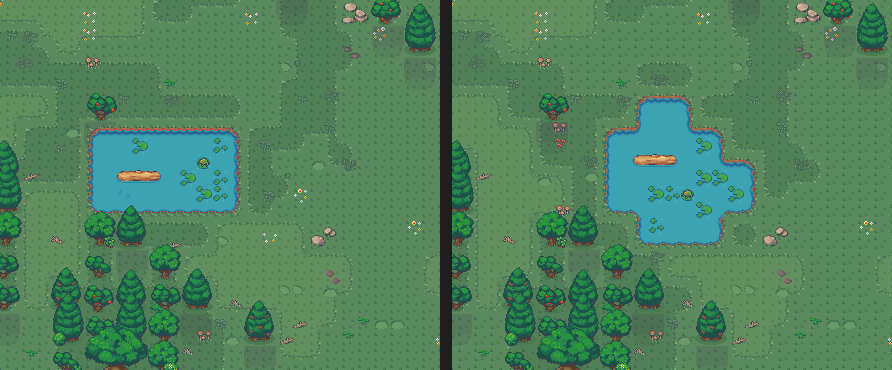
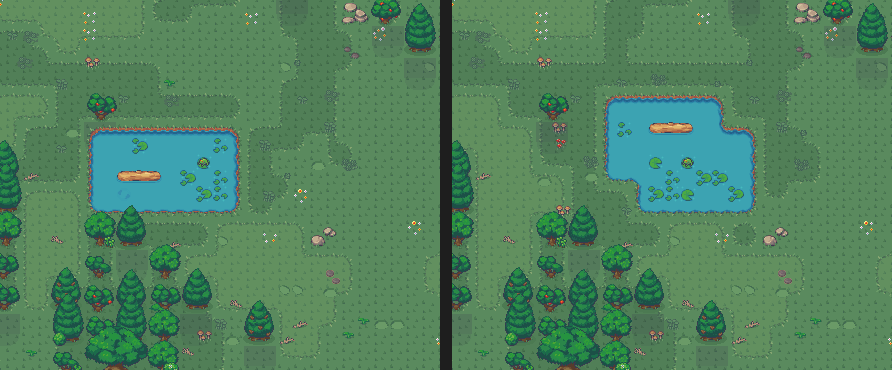
D-191: the sim check, the leaning ponds and Creekside's +150% in the log
Rewrites D-191 for the sim check: the first build's cost on creek and pond
lots, the six variants side by side, the leaning ponds and Creekside at +150%
(the user's call), and what was considered. Notes the +150% on D-174, the
leaning ponds on D-049, D-166 and the plan, and swaps in a pond lot's shot with
the leaning pond.

Claude-Session: https://claude.ai/code/session_01UazHN1hxkSSg3iCvTHSRR4

diff --git a/src/rules/text.ts b/src/rules/text.ts
@@ -1282,7 +1282,7 @@ export function blueprintText(content: Content, def: BlueprintDef): string[] {
 
 /**
  * A lot trait's tip (D-119): what it pays, all run, what it deals more of (D-166), then its
- * blurb. "Pieces touching the Creek earn +100%, all run. More Patios in the draw. Only a Driveway
+ * blurb. "Pieces touching the Creek earn +150%, all run. More Patios in the draw. Only a Driveway
  * crosses it."
  */
 export function lotTraitText(content: Content, def: LotTraitDef): string {

diff --git a/src/rules/estimate.ts b/src/rules/estimate.ts
@@ -105,7 +105,7 @@ export interface Estimate {
 export interface EstimateOptions {
   /**
    * What the new piece would touch, where the run's modifiers and the house rules ask for it
-   * (Creekside's +100% for a piece by the creek), which the estimate otherwise counts as never.
+   * (Creekside's +150% for a piece by the creek), which the estimate otherwise counts as never.
    */
   touching?: boolean;
   /**

diff --git a/docs/decisions.md b/docs/decisions.md
@@ -184,7 +184,7 @@ The board sits behind a small `BoardView` interface, so Phaser could replace jus
   *Changed by D-120 (Proposed 2026-11-09):* the sunny side becomes the sun's side, one edge of the lot. A tile is in the sun unless it's a Tree, or a Tree, the Old Shed or a building stands one step toward the sun, and a building with a tile in the sun is Sunny.
   *Changed, 2026-11-12 (D-166; Accepted 2026-11-13, playtest 8):* lot kinds. Once a lot passes its checks, most are shaped toward a trait on a stream of their own: a Rocky lot gets 8–12 more Boulders (14–22), an Open lot loses its woods (its lone Trees stay), and a pond lot's pond grows to 14–20 tiles. A plain lot (35% of draws) is the lot it was, and the first job's lot is always plain. Each kind is a lot trait that pays all run (D-119).
   *Proposed change, 2026-11-13 (D-174, awaiting the user's OK):* biomes. Each lot's biome is drawn first: the meadow (two lots in five: these lots in this look, and the first job's), the lakeside (a lake along the back 2–5 rows, a big pond, or a creek through the middle), the autumn woods (one more woods cluster, autumn colors, and Old Woods lots, whose Trees can't be built over) and the dry lot (Rocky or Open, straw grass and olive trees, a creek on a tenth of lots). The lake is a new feature: water and a view, it counts once, and nothing is built on it, not even a Driveway.
-  *Changed by D-191 (Proposed 2026-11-20):* water in natural shapes. A 3 × 3 pond loses a corner or two, a pond lot's pond is round, a lake's shore curves from bay to point, and a creek bends: from the back edge it heads down and eases round to its side, and side to side it eases from turn to turn.
+  *Changed by D-191 (Proposed 2026-11-20):* water in natural shapes. A 3 × 3 pond loses a corner or two, a pond lot's pond leans, a lake's shore curves from bay to point, and a creek bends: from the back edge it heads down and eases round to its side, and side to side it eases from turn to turn. Creekside pays +150% for the bends' steps (the user's call).
 - Water bodies count once as a neighbor. Each Tree tile counts separately, so effects that count Trees or views have a cap.
 - Only a Driveway can be built over the creek (a culvert), so the house sits on one bank but can still have a Garage.
 - The lot edge bounds a fenced yard like a wall, so a house near an edge makes a cheap fenced yard. A fenced yard must also border the house, so a lone Fence in a corner doesn't count.
@@ -3812,7 +3812,7 @@ What the columns mean:
    | **Open** | only the lone Trees (6–10; a plain lot has 50 or more) | yard pieces +100% | Lawns, Herb Gardens | Few Trees, lots of sun. |
 
    - **Lot kinds** shape most lots (`balance.lot.kinds`: plain 35, Rocky 25, Open 20, pond 20). Once a lot passes its checks, its kind is drawn from its own `lot/<attempt>/kind` stream, so a plain lot is exactly the lot it was. A shaped lot that would fail the checks stays as drawn, and so does a pond lot whose creek took its pond. Rocky's Boulders go down as the first ones did; Open clears every Tree that touches another; the pond grows a tile at a time onto open ground or Trees, where most of its tiles touch, and keeps its margins (off the edges, two rows from the street, a tile from the creek). The first job's lot (`jobBoard.firstSeed`) is always plain: the guided job was built on it (D-149).
-     - *Changed by D-191 (Proposed 2026-11-20):* the pond doesn't grow a tile at a time: it becomes one of 14 round shapes of 16–20 tiles (`ROUND_PONDS`), centered on the pond as drawn and keeping its margins, so Pondside's pond is 16–20 tiles, not 14–20.
+     - *Changed by D-191 (Proposed 2026-11-20):* the pond doesn't grow a tile at a time: it becomes one of 14 shapes of 16–20 tiles (`ROUND_PONDS`), boxes that lean with two corners cut, or all four on the 4 × 6s, centered on the pond as drawn and keeping its margins, so Pondside's pond is 16–20 tiles, not 14–20, with its bank about as long as before.
    - Rocky, Pondside and Open name the kind the lot was shaped to (`when: { kind }`), so a test's bare lot isn't Open. Creekside and Wooded read the terrain, as before.
    - **A run keeps the traits it began with** (`Lot.traits`, set by `newRun`), so clearing Trees can't take Wooded away, and the draw's weights stay fixed for the run (D-043).
    - Of 2,000 lots (`check-0` to `check-1999`): 20.0% plain, 58.2% one trait, 20.5% two, 1.4% three. Creekside 24.6%, Rocky 23.6%, Open 20.2%, Pondside 18.1%, Wooded 17.0%.
@@ -4339,6 +4339,7 @@ What the columns mean:
 - **Old Woods** (`kind oldWoods`, `protects: ['tree']`): the autumn woods as drawn, but no piece is built over a Tree. Placement refuses one with "These old Trees stay: build around them.", and a Tree's inspect line says the same. Pieces touching a Tree earn **+100%**, all run, and more Treehouses and Birdhouses in the draw. "Its Trees stay: build around them." It takes Wooded's place on its lot. The lot needs 65% of its tiles free and the street reachable around the Trees (`KIND_CHECKS`), and the bots' Driveway planner (D-140) goes around its Trees.
 - **Open paid again** (D-166's trait, on meadow and dry lots): yard pieces earn +100%, as before, and Sunny pieces **+50%**; its tilt toward Lawns and Herb Gardens goes. Its tip: "Yard pieces earn +100%, all run. Sunny pieces earn +50%, all run. Few Trees, lots of sun."
 - **Creekside pays +100%** (D-166's +50%), as Pondside and Lakefront do, so the lot's water pays alike. On D-171's targets a creek lot was greedy's weakest on develop (38.7% of its 463 lots of `hold-*`, against 44.9% on all), and the creek through the middle the weakest kind here (40.0%): what the creek takes from the lot cost more than its bank paid back. Its tip: "Pieces touching the Creek earn +100%, all run. More Patios in the draw. Only a Driveway crosses it."
+  *Changed by D-191 (Proposed 2026-11-20, the user's call):* Creekside pays +150%. The creek bends, and a bend's bank runs in steps a house of square rooms can't line up along: at +100%, greedy won 43.0% of the 477 creek lots of `hold-0` to `hold-1999`, where it won 50.7% of them with the old creeks, and at +150%, 47.2%. Its tip says +150%.
 - **The targets are fitted again,** on top of D-171's (D-169's method): 40, 800, 3,850, 10,700, 25,100, 47,800 and 91,300 Wow, each client's factor as it was, and a first job's `firstTargetPct` 55 (below).
 - **Words:** two new chips whose blurbs are no longer than today's longest (37 characters). How to play lists the seven traits from the content and says the lake gives views. Waterfront counts the Lake, and a list of the lot's one-of-a-kind features shares one "the": "Pieces touching the Pond, Creek, or Lake earn +100%", so its line on a shop card ("No pieces touching the Pond, Creek, or Lake yet", 47 characters) still fits. The Living Room's views note names the Lake. A biome has no name on screen: its colors and its chips say it. No new tooltip or panel.
 
@@ -5128,35 +5129,61 @@ By kind, could pay: blueprints 92.2 → 95.8%, special pieces 89.4 → 96.0%, fi
 - **A replayed run scores more** than it did where Bunk Beds sat at the top of a range, so from there its milestones can go differently.
 
 ### D-191 · Natural water: round ponds, a lake shore that curves, and creeks that bend
-**Status:** Proposed · 2026-11-20, a phase pull request (`phase/natural-water`, on top of D-190's `phase/ground-pass`), the second part of the lot visuals review the user picked ("Ground pass, then natural water", 2026-11-20): "rounder ponds, a curved lake shore and a bending creek. That changes lot generation, breaks runs in progress and needs a sim check." Until now the water was drawn in boxes: a pond lot's pond a plain rectangle on one lot in five, a 3 × 3 pond a square, a creek in long straight runs with square turns, and a lake's shore in square notches. It changes the content (`balance.lot.pondTiles` and the new `bendEvery`), so `contentHash(CONTENT)` goes from `4c677dcf` to `35fdec18`: a run in progress from before doesn't carry over (D-068) and its run code notes that the content has changed, and a creek lot is drawn anew (below).
+**Status:** Proposed · 2026-11-20, a phase pull request (`phase/natural-water`, #117), the second part of the lot visuals review the user picked ("Ground pass, then natural water", 2026-11-20): "rounder ponds, a curved lake shore and a bending creek. That changes lot generation, breaks runs in progress and needs a sim check." Until now the water was drawn in boxes: a pond lot's pond a plain rectangle on one lot in five, a 3 × 3 pond a square, a creek in long straight runs with square turns, and a lake's shore in square notches. The sim check found the new water cost greedy about three points of its wins, all on lots with water, so a pond lot's pond now keeps its bank, and Creekside pays +150%: the user's call on a card (2026-11-20, "Curvy creeks, Creekside +150%", over keeping today's creeks, or the bends with the pay unchanged). It changes the content (`balance.lot.pondTiles`, the new `bendEvery` and Creekside's pay), so `contentHash(CONTENT)` goes from develop's `1c176da1` to `1c0cf487`: a run in progress from before doesn't carry over (D-068) and its run code notes that the content has changed, and a creek lot is drawn anew (below).
 **Decision:**
 - **A pond rounds off** (`roundPond` in `rules/lot.ts`): a 3 × 3 pond loses a corner tile, or on half of them two across from each other, so it leans; the tiles it loses are open ground. A 2 × 2 or 2 × 3 pond stays as it is: the shore's art already rounds each cell's corners. It's the lot's last draw, so every draw before it is as it was.
-- **A pond lot's pond is round** (`growPond`, `ROUND_PONDS`, `cutBox`): one of 14 shapes of 16 to 20 tiles, each a box with its corners cut off in steps: 4 × 5, 5 × 4, 4 × 6 and 6 × 4 with a tile off each corner; 5 × 5 with one corner, or two across from each other, cut two deep (six shapes); and 3 × 6 and 6 × 3 leaning one way or the other. It's centered on the pond as drawn, or up to a cell off where that doesn't fit, on open ground or Trees and with the margins it had (off the lot's edges, two rows from the street, a tile from the creek). `pondTiles` goes from 14–20 to 16–20, the shapes' sizes. Before, it grew a tile at a time and stayed a rectangle on one pond lot in five; now none is.
+- **A pond lot's pond leans** (`growPond`, `ROUND_PONDS`, `cutBox`): one of 14 shapes of 16 to 20 tiles, each a box with corners cut off. Twelve lose two corners across from each other: 4 × 5, 5 × 4, 3 × 6, 6 × 3, 3 × 7 and 7 × 3, each leaning one way or the other. The 4 × 6 and the 6 × 4 lose all four. A cut corner shortens the bank by a tile and leaves a step a room can't lie flush against, so none is cut more: the first round ponds, with every corner cut and some two deep, cost a pond lot 7.5 points of greedy's wins (the sim check). It's centered on the pond as drawn, or up to a cell off where that doesn't fit, on open ground or Trees and with the margins it had (off the lot's edges, two rows from the street, a tile from the creek). `pondTiles` goes from 14–20 to 16–20, the shapes' sizes. Before, it grew a tile at a time and stayed a rectangle on one pond lot in five; now none is.
 - **A lake's shore curves** (`carveLake`): its depth, the back 2–5 rows as before (`lakeRows`), eases from turn to turn: a turn every 5 to 8 columns (`bendEvery`, drawn once a lake), each 1 to 3 rows from the last, with smoothstep's curve between them, rounded to whole rows (`easeThrough`: plain arithmetic on doubles, no `Math.sin`, so every browser draws the same lot). The shore steps a row at a time, every bay and point is three columns wide or more, and no shore is straight.
 - **A creek bends** (`creekPath`), still a cell wide, stepping a cell at a time, never doubling back and clear of the street:
   - **From the back edge** (half of creeks), a quarter bend (`bendPath`): it heads straight down, eases round toward its side, and reaches it 6 or more rows down (`BEND_FROM_ROW`). Each leans up to 40% toward the straight diagonal, down and across (`BEND_LEAN`), so no two bend alike.
   - **Side to side,** and a split lot's through the middle rows (`acrossPath`): it eases from turn to turn as the lake's shore does, every 5 to 8 columns (`bendEvery`), each turn 1 to 3 rows from the last.
   - **It meets each edge straight on,** so its mouth past the board (`outside.ts`) runs on straight, as the shore there assumes. Over 2,000 lots a creek has 13.5 corners on average, where it had 8.7.
-- **What moves:** a lot without a creek keeps every tile but its pond's, and on a few its finds (the pond rounds last, and a pond lot's pond grows on its kind's own stream). A lot with a creek is drawn anew from its creek on, since the bends take other draws, so its woods, pond, Boulders and finds move. Of 2,000 lots (`seed-0` to `seed-1999`): of the 1,537 without a creek, 877 are the same tile for tile, 590 differ only in their water and 27 in their water and finds, and 43 drew another lot (37 lake lots drawn with a creek the lake took, and 6 whose checks went the other way); of the 463 with one, 393 drew another lot and 70 differ only in their water and finds.
-- **The water's amounts** over the same 2,000 lots, per lot: a meadow lot's pond 4.8 tiles (5.1 before) and a pond lot's 17.4 (16.9); a lake 83.2 tiles (83.8); a split lot's creek 31.4 (31.1). Rounding takes corners, so the banks are shorter: a meadow pond lot's open tiles beside water 15.7 (17.3), a lakeside pond lot's 18.6 (20.3), a split lot's 45.7 (48.4); a lake's 19.6 (19.2).
-- **A pond's log** (D-190): a pond's lilies make room for its log, and a pond with no room for the long log takes a short one, so every pond lot's pond has one. D-190's logs found room among the lilies on 6% of pond lots, and on 1% once the ponds were round.
+- **Creekside pays +150%** (D-174: +100%; `lot-traits.ts`). A bend's bank runs in steps, and a house of square rooms can't line up along it as it can along a straight reach: at +100%, greedy won 43.0% of the 477 creek lots of `hold-0` to `hold-1999`, where it won 50.7% of them with the old creeks. At +150% it won 47.2%, a difference the sample can't tell from none (the sim check). Its tip: "Pieces touching the Creek earn +150%, all run. More Patios in the draw. Only a Driveway crosses it." Pondside and Lakefront stay at +100%: a pond's bank and a lake's are about as long as before (below).
+- **What moves:** a lot without a creek keeps every tile but its pond's, and on a few its finds (the pond rounds last, and a pond lot's pond grows on its kind's own stream). A lot with a creek is drawn anew from its creek on, since the bends take other draws, so its woods, pond, Boulders and finds move. Of 2,000 lots (`seed-0` to `seed-1999`): of the 1,537 without a creek, 877 are the same tile for tile, 589 differ only in their water and 29 in their water and finds, and 42 drew another lot (37 lake lots drawn with a creek the lake took, and 5 whose checks went the other way); of the 463 with one, 393 drew another lot and 70 differ only in their water and finds.
+- **The water's amounts** over the same 2,000 lots, per lot: a meadow pond lot's pond 17.8 tiles (16.9 before) and a lakeside one's 17.9 (17.1); a plain meadow lot's ponds 4.8 (5.1); a lake 83.2 (83.8); a split lot's creek 31.4 (31.1). The banks, as open tiles beside water: a meadow pond lot's 17.1 (17.3) and a lakeside one's 19.4 (20.3, a creek's bank in it on one lot in six); a lake's 19.6 (19.2); a split lot's 45.7 (48.4).
+- **A pond's log** (D-190): a pond's lilies make room for its log, and a pond with no room for the long log takes a short one, so every pond lot's pond has one (all 210 of `seed-0` to `seed-1499`). D-190's lilies left it room on 6% of pond lots, and on 2% once the ponds leaned.
 - **The board draws it as before:** the water's autotiling, the creek's mouths and the lake running on past the lot are unchanged (`water.ts`, `outside.ts`).
 
-**Why:** the user found the lots "uniform and boring outside of the trees", and water drawn in boxes reads as a grid, not a place. A pond that leans, a shore with bays, and a creek that wanders down and round to the side look made by water. The rules read the same tiles as ever (a pond is a pond, a bank is a bank), so the lot plays as it did, with its water in another shape.
+**Why:** the user found the lots "uniform and boring outside of the trees", and water drawn in boxes reads as a grid, not a place. A pond that leans, a shore with bays, and a creek that wanders down and round to the side look made by water. The rules read the same tiles as ever (a pond is a pond, a bank is a bank), but a bank in steps leaves a house of square rooms fewer places to lie along it. So the ponds keep their banks' length and the creek pays more for its steps, and a lot plays about as it did (the sim check).
+
+**The sim check** (greedy, on the user's Mac with Node 26.5, every run with `--no-gate`: the benchmark gate fails on develop too, D-188's gap. "Won only before / after" counts the seeds one side won and the other lost, and p is an exact two-sided sign test on them):
+- **The water as first built** (`0547e92`, against develop at `c92de7b`): greedy won 45.5% of `hold-0` to `hold-999`, against 48.3% (79 won only before, 51 only after, p 0.018), and 48.5% of `check-0` to `check-199`, against 49.5% (14 and 12, p 0.85). Every lot that came out the same tile for tile played the same, and the loss sat on the lots with water: creek lots 48.4% → 41.3% (225 lots) and pond lots 48.3% → 42.4% (118). §8's verdicts kept their classes, but for "fences pay their way" (PASS to PASS, unsure). The banks were shorter: a creek lot's open tiles beside its creek 41.5 → 36.4, a pond lot's beside its pond 13.7 → 12.4.
+- **Six variants side by side** on the 477 creek lots and the 229 pond lots of `hold-0` to `hold-1999`, against develop as the water branched from it (`c92de7b`). The pond lots' arms keep their own creeks, on the one pond lot in eight that has one.
+
+| Creek lots (477) | Won | Change | Won only before / after | p |
+|---|---|---|---|---|
+| Develop's creeks | 50.7% | | | |
+| The bends, Creekside +100% | 43.0% | −7.7 | 100 / 63 | 0.005 |
+| The bends, Creekside +125% | 45.3% | −5.4 | 102 / 76 | 0.06 |
+| **The bends, Creekside +150%** | **47.2%** | **−3.5** | **96 / 79** | **0.23** |
+| Straight reaches with deeper turns between them | 40.0% | −10.7 | 116 / 65 | 0.0002 |
+| The bends, reaching their side 11 rows down or more | 41.9% | −8.8 | 109 / 67 | 0.002 |
+
+| Pond lots (229) | Won | Change | Won only before / after | p |
+|---|---|---|---|---|
+| Develop's ponds | 52.0% | | | |
+| The first round ponds | 44.5% | −7.5 | 34 / 17 | 0.024 |
+| **The leaning ponds** | **47.6%** | **−4.4** | **34 / 24** | **0.24** |
+
+- **The water as it is now** (`01dad0d`, against its merge base, develop at `189d579`): running on the user's Mac, `--check` and 1,000 runs of `hold-*` a side.
 
 **Considered:**
 - *Rounding the water by the subtile* (a quarter cell, in the board's drawing): LimeZu's shore pieces don't join at half a cell, and the outline broke. Its 32 px corners already round each cell, so a cell's steps read as curves.
 - *Growing the pond out from its middle as an ellipse:* it gave 5 × 3 and 4 × 5 rectangles and plus shapes with tabs, so the shapes are listed (`ROUND_PONDS`) and tested.
+- *Rounder ponds,* every corner cut and the 5 × 5s two deep at one corner or two: they read rounder, but their banks were shorter and in more steps, and greedy won 7.5 points less on pond lots.
+- *Straight reaches with deeper turns between them:* a creek from the back running straight down, turning once and running straight to its side, and a creek across dropping two rows where it turns steeply, to give a house long straight banks to line up along. They looked boxier, and greedy won least with them (40.0% of creek lots): a deeper turn cuts off more of the lot behind the creek. Nor did bends that reach their side lower down help (41.9%).
+- *Keeping today's creeks,* with the leaning ponds, or *the bends with Creekside's pay as it was* (7.7 points down at +100%, 5.4 at +125%): the user picked the bends at +150%.
 - *Keeping creek lots as they were* by drawing the old creek's numbers and throwing them away: the creek's tiles still move, and the woods, pond and finds go round them, so those lots would change anyway.
 - *Pools and wider reaches on the creek:* not in the review's pick, and a creek a cell wide is what Creekside and the Driveway's culvert assume (D-049).
 
-**Changes:** D-049 (Accepted): the terrain (a note). D-166 (Accepted): the pond lot's pond (a note). D-174 (Accepted): the lake's shore and the creek through the middle (a note). D-190 (Proposed): the pond's log (a note). `docs/implementation-plan.md`: the lot's creek, pond and kinds.
+**Changes:** D-049 (Accepted): the terrain (a note). D-166 (Accepted): the pond lot's pond (a note). D-174 (Accepted): the lake's shore and the creek through the middle (a note), and Creekside's +150%, the user's call (a note). D-190 (Proposed): the pond's log (a note). `docs/implementation-plan.md`: the lot's creek, pond and kinds, and Creekside's row.
 
-**Checked:** `npm test` (158 files, 2,672 tests), `npm run typecheck` and `npm run format:check`. New tests in `lot.test.ts` (6): `easeThrough` flat around its marks and a row at a time; `cutBox`'s corners; a pond lot's pond one of the round shapes, every shape seen, no tile sticking out alone (1,500 lots); a 3 × 3 pond rounding to 7 or 8 tiles; a lake's shore a row at a time, its turns three columns wide or more and never straight; and a creek's bends, back to side and across, every creek meeting the edge straight on (600 lots, and the split lots of 400). `terrain.test.ts`: every big pond has its log. In headless Chrome at 1920 × 1200: eight lots before and after (`look-7`, `look-18`, `look-27`, `look-37`, `look-51`, `look-52`, `look-60`, `look-79`): a lake, two pond lots, three creeks from the back, a split lot and a 3 × 3 pond; no console errors. Two things found and fixed there: a creek that stepped in its last column met the lot's edge on a bend, so the water past the board didn't line up, and a round pond seldom had room for its log.
+**Checked:** `npm test` (164 files, 2,770 tests), `npm run typecheck` and `npm run format:check`. New tests in `lot.test.ts` (6): `easeThrough` flat around its marks and a row at a time; `cutBox`'s corners; a pond lot's pond one of the leaning shapes, every shape seen, no tile sticking out alone (1,500 lots); a 3 × 3 pond rounding to 7 or 8 tiles; a lake's shore a row at a time, its turns three columns wide or more and never straight; and a creek's bends, back to side and across, every creek meeting the edge straight on (600 lots, and the split lots of 400). `terrain.test.ts`: every big pond has its log. `modifiers.test.ts`: Creekside's +150% and its tip. In headless Chrome at 1920 × 1200: eight lots before and after (`look-7`, `look-18`, `look-27`, `look-37`, `look-51`, `look-52`, `look-60`, `look-79`): a lake, two pond lots, three creeks from the back, a split lot and a 3 × 3 pond; no console errors; and the two pond lots again with the leaning ponds (`look-79` in `docs/playtests/natural-water-pond.png`). Two things found and fixed there: a creek that stepped in its last column met the lot's edge on a bend, so the water past the board didn't line up, and a round pond seldom had room for its log.
 
 **Known gaps:**
 - **A creek lot is a new lot,** about a quarter of seeds: a run code or a "Play this lot again" from before plays a different lot.
-- **The banks are a little shorter** (above), so a pond or creek lot pays its water's bonus on fewer tiles. The sim check measures what that costs.
+- **Creekside's +150% is fitted to greedy,** which packs square rooms against the water as tightly as it can; a person may line a house up along the bends better or worse. A playtest question.
+- **The leaning ponds read as boxes with their corners off** more than as round ponds: rounder ones cost their banks (Considered).
 - **A plain lot's small ponds keep their boxes:** a 2 × 2 or 2 × 3 pond is only as round as the art makes it.
 - **Not played by a person,** and only the eight lots were looked at.
 

diff --git a/docs/implementation-plan.md b/docs/implementation-plan.md
@@ -1710,7 +1710,7 @@ Grouped by the phase that builds them. Numbers are placeholders in `balance.ts` 
   - terrain covers about a fifth of the lot (about 110–130 tiles)
   - regenerate (with the next `lot/<attempt>` key) if fewer than 85% of tiles are free of water, Boulders, and the Old Shed, if fewer than 10 street-edge tiles are free, or if the creek leaves less than 60% of the buildable tiles on the street's side
   - **biomes** (D-174): before the lot is drawn, its biome comes from the seed's own `lot/biome` stream by `biomes`' weights: the **meadow** 40 (D-166's lots and today's look), the **lakeside** 20, the **autumn woods** 20 (4–5 woods clusters, so most of its lots are Wooded) and a **dry** lot 20 (a creek on 10% of lots). Each biome deals its own lot kinds and sets the board's look (the autumn woods and a dry lot draw `art/limezu/biomes.json`'s cuts; the lakeside looks like the meadow). A lot that fails its checks is drawn again in the same biome. The first job's lot is a plain meadow lot
-  - **lot kinds** (D-166, D-174): once a lot passes the checks and before its finds, its kind is drawn from its own `lot/<attempt>/kind` stream by its biome's `kinds` weights (the meadow: plain 35, Rocky 25, Open 20, pond 20; the lakeside: lake 40, pond 30, split 30; the autumn woods: plain 60, Old Woods 40; a dry lot: Rocky 50, Open 50), so a plain lot is exactly the lot it was. A **Rocky** lot gets 8–12 more Boulders (`rockyBoulders`, 14–22 in all), an **Open** lot loses its woods (the lone Trees stay), a **pond** lot's pond becomes one of 14 round shapes of 16–20 tiles (`ROUND_PONDS`, `pondTiles`; D-191), centered on the pond as drawn, onto open ground or Trees, keeping its margins, a **lake** lot's back 2–5 rows are a lake (`lakeRows`, its shore easing from turn to turn every 5–8 columns, a row at a time, D-191; its pond and creek go), a **split** lot's creek runs side to side through the middle rows (36–58% of the way back), bending as a side-to-side creek does, and an **Old Woods** lot keeps its woods as drawn, every Tree standing. Each kind's checks (`KIND_CHECKS`): a lake lot needs 65% of its tiles free, a split lot 30% of its buildable tiles on the street's side, and an Old Woods lot counts its Trees as lost ground the house can't cross (65% free). A shaped lot that would fail its checks, or a pond lot whose creek took its pond, stays as drawn. The first job's lot (`jobBoard.firstSeed`) is always plain (D-149)
+  - **lot kinds** (D-166, D-174): once a lot passes the checks and before its finds, its kind is drawn from its own `lot/<attempt>/kind` stream by its biome's `kinds` weights (the meadow: plain 35, Rocky 25, Open 20, pond 20; the lakeside: lake 40, pond 30, split 30; the autumn woods: plain 60, Old Woods 40; a dry lot: Rocky 50, Open 50), so a plain lot is exactly the lot it was. A **Rocky** lot gets 8–12 more Boulders (`rockyBoulders`, 14–22 in all), an **Open** lot loses its woods (the lone Trees stay), a **pond** lot's pond becomes one of 14 shapes of 16–20 tiles (`ROUND_PONDS`, `pondTiles`; D-191: boxes that lean, two corners across from each other cut, or all four on the 4 × 6s), centered on the pond as drawn, onto open ground or Trees, keeping its margins, a **lake** lot's back 2–5 rows are a lake (`lakeRows`, its shore easing from turn to turn every 5–8 columns, a row at a time, D-191; its pond and creek go), a **split** lot's creek runs side to side through the middle rows (36–58% of the way back), bending as a side-to-side creek does, and an **Old Woods** lot keeps its woods as drawn, every Tree standing. Each kind's checks (`KIND_CHECKS`): a lake lot needs 65% of its tiles free, a split lot 30% of its buildable tiles on the street's side, and an Old Woods lot counts its Trees as lost ground the house can't cross (65% free). A shaped lot that would fail its checks, or a pond lot whose creek took its pond, stays as drawn. The first job's lot (`jobBoard.firstSeed`) is always plain (D-149)
   - **lot traits** (D-119, D-166, D-174): chips on the contract, each paying all run and doubling its cards' draw weight (Open pays the sun instead). Creekside (a creek), Pondside (a pond lot), Wooded (100 or more Tree tiles, not on an Old Woods lot), Rocky, Open, Lakefront and Old Woods (those kinds); Appendix B lists them. Old Woods keeps its Trees (`protects`): no piece is built over one, and placement says so. Of 2,000 lots, 20% have none, 58% one, 22% two or three. A run keeps the traits it began with (`Lot.traits`), so clearing Trees can't take Wooded away and the draw's weights stay fixed
 - **First earning:** a piece earns in the week it's placed. Transforms happen at the start of the week, so the preview equals what the week adds.
 - **Pass:** always allowed, no reward.
